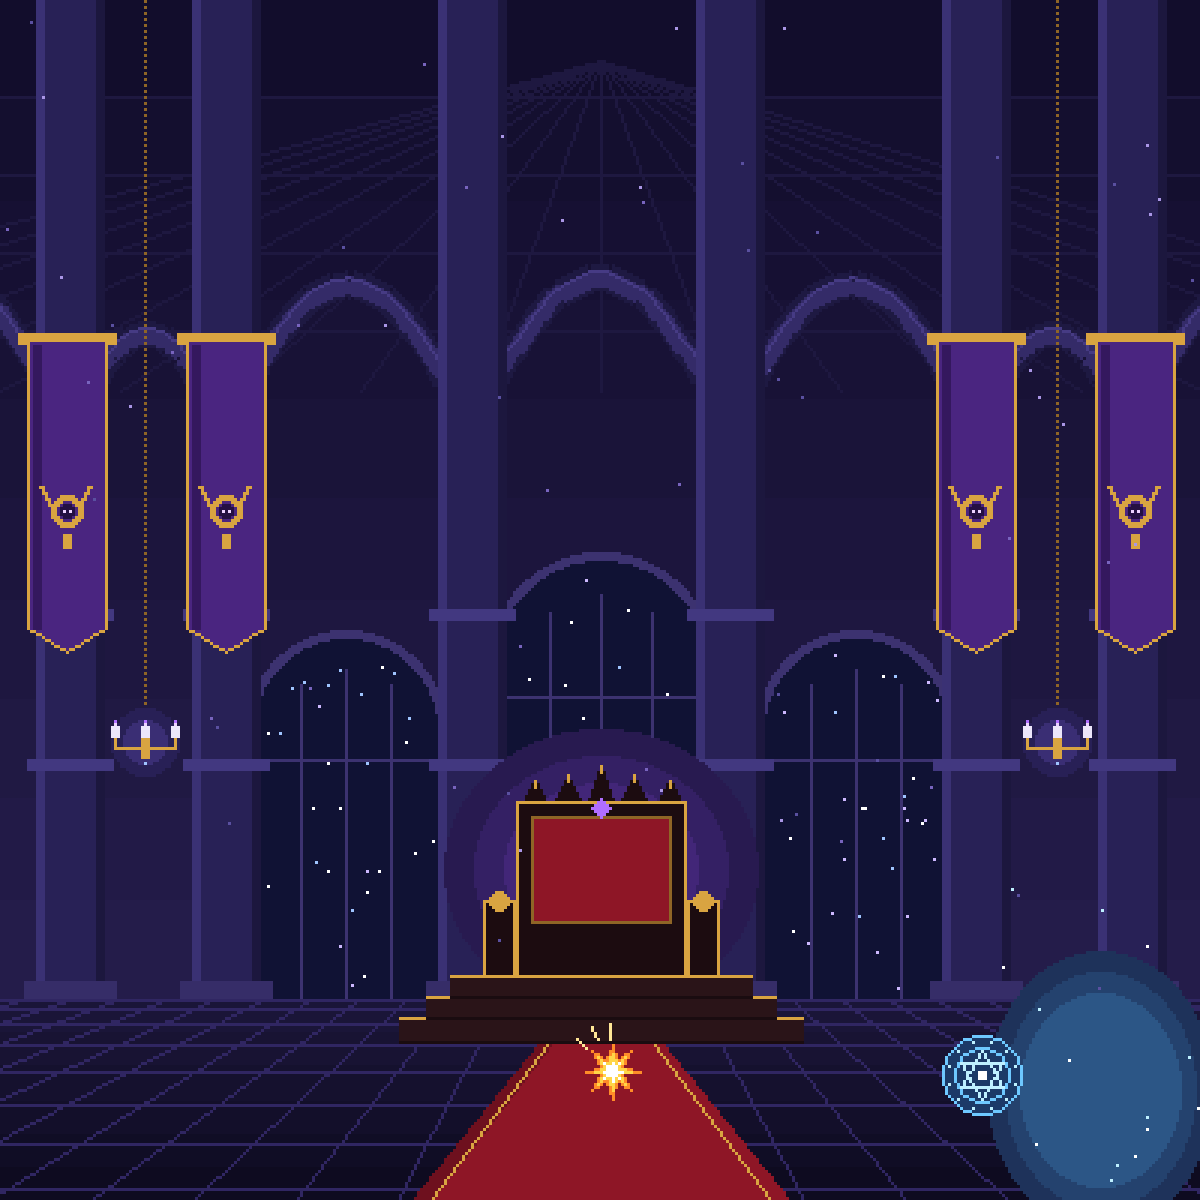
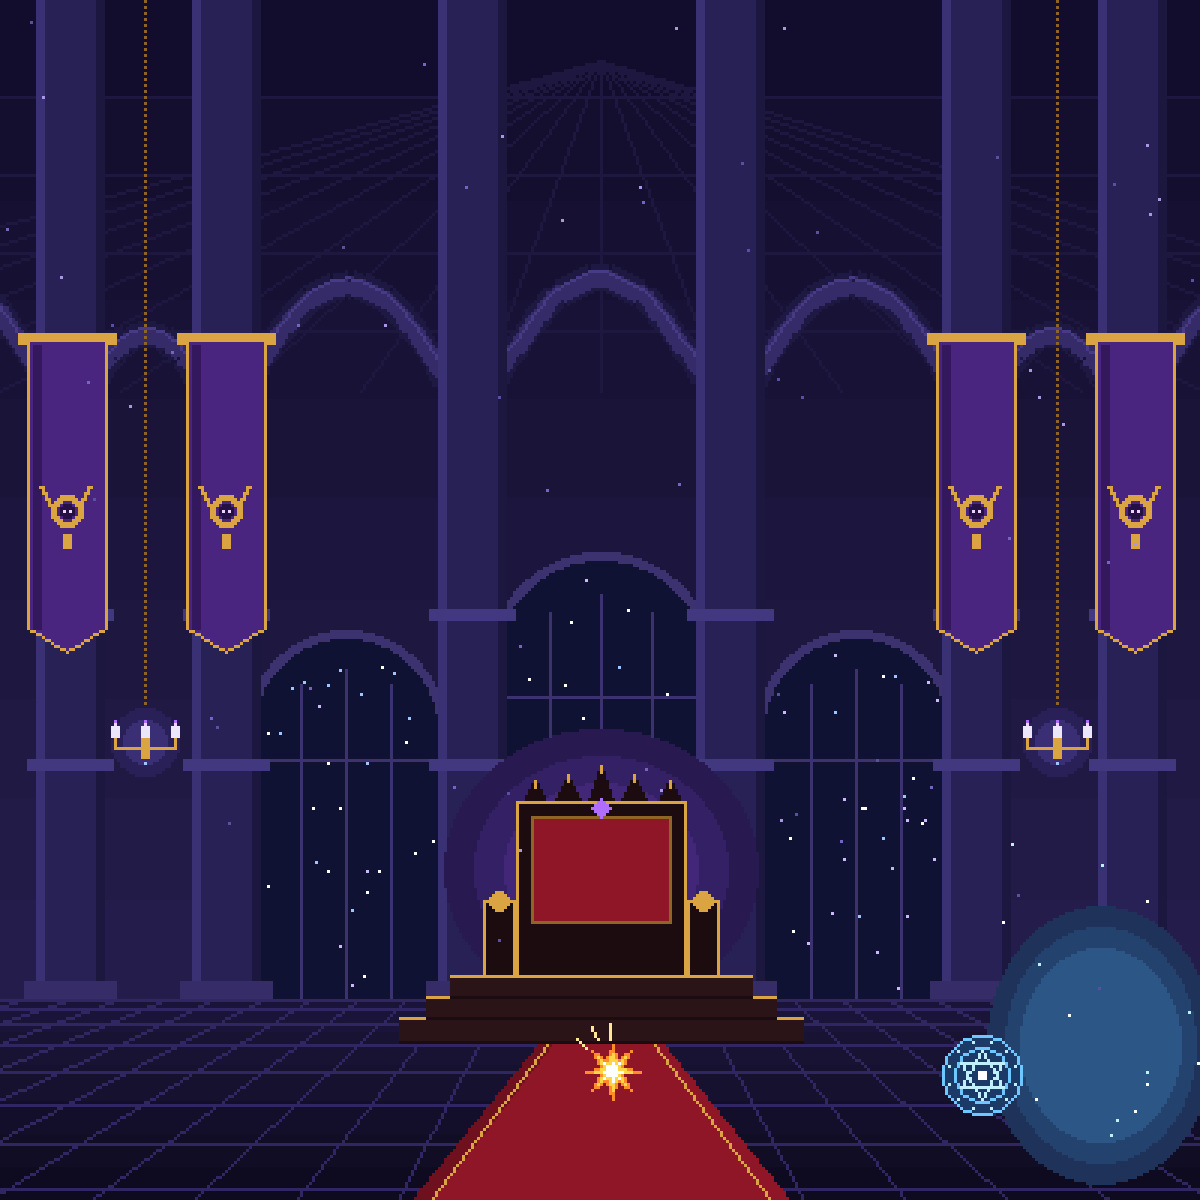
fix: ログイン画面の背景の ch173 のオーラを浮かせた高さに合わせる変更
Claude-Session: https://claude.ai/code/session_011X4TxBXDMNLYtsohDokjwQ

Changed region(s): [[0.8017, 0.925, 1.0, 1.0], [0.8017, 0.74, 0.9867, 0.8633], [0.9867, 0.8325, 1.0, 0.8633]]

diff --git a/tools/auth-hero/generate_throne_hall.py b/tools/auth-hero/generate_throne_hall.py
@@ -278,7 +278,8 @@ def draw_scene() -> Image.Image:
         d.line([hx + math.cos(ang) * 11, hy + math.sin(ang) * 11, hx + math.cos(ang) * 16, hy + math.sin(ang) * 16], fill=(255, 230, 150))
 
     # 後衛の子（ch173）の水色のオーラと魔法陣
-    ax, ay = sx(1100), sy(520)
+    # ch173 は宙に浮かせて地上のキャラより 45px（ステージ座標）上にいるので、オーラもその分上げる
+    ax, ay = sx(1100), sy(475)
     for r, c in [(46, (30, 50, 90)), (39, (36, 66, 110)), (32, (44, 86, 134))]:
         d.ellipse([ax - r * 0.82, ay - r, ax + r * 0.82, ay + r], fill=c)
     magic_circle(d, sx(980), sy(505))
